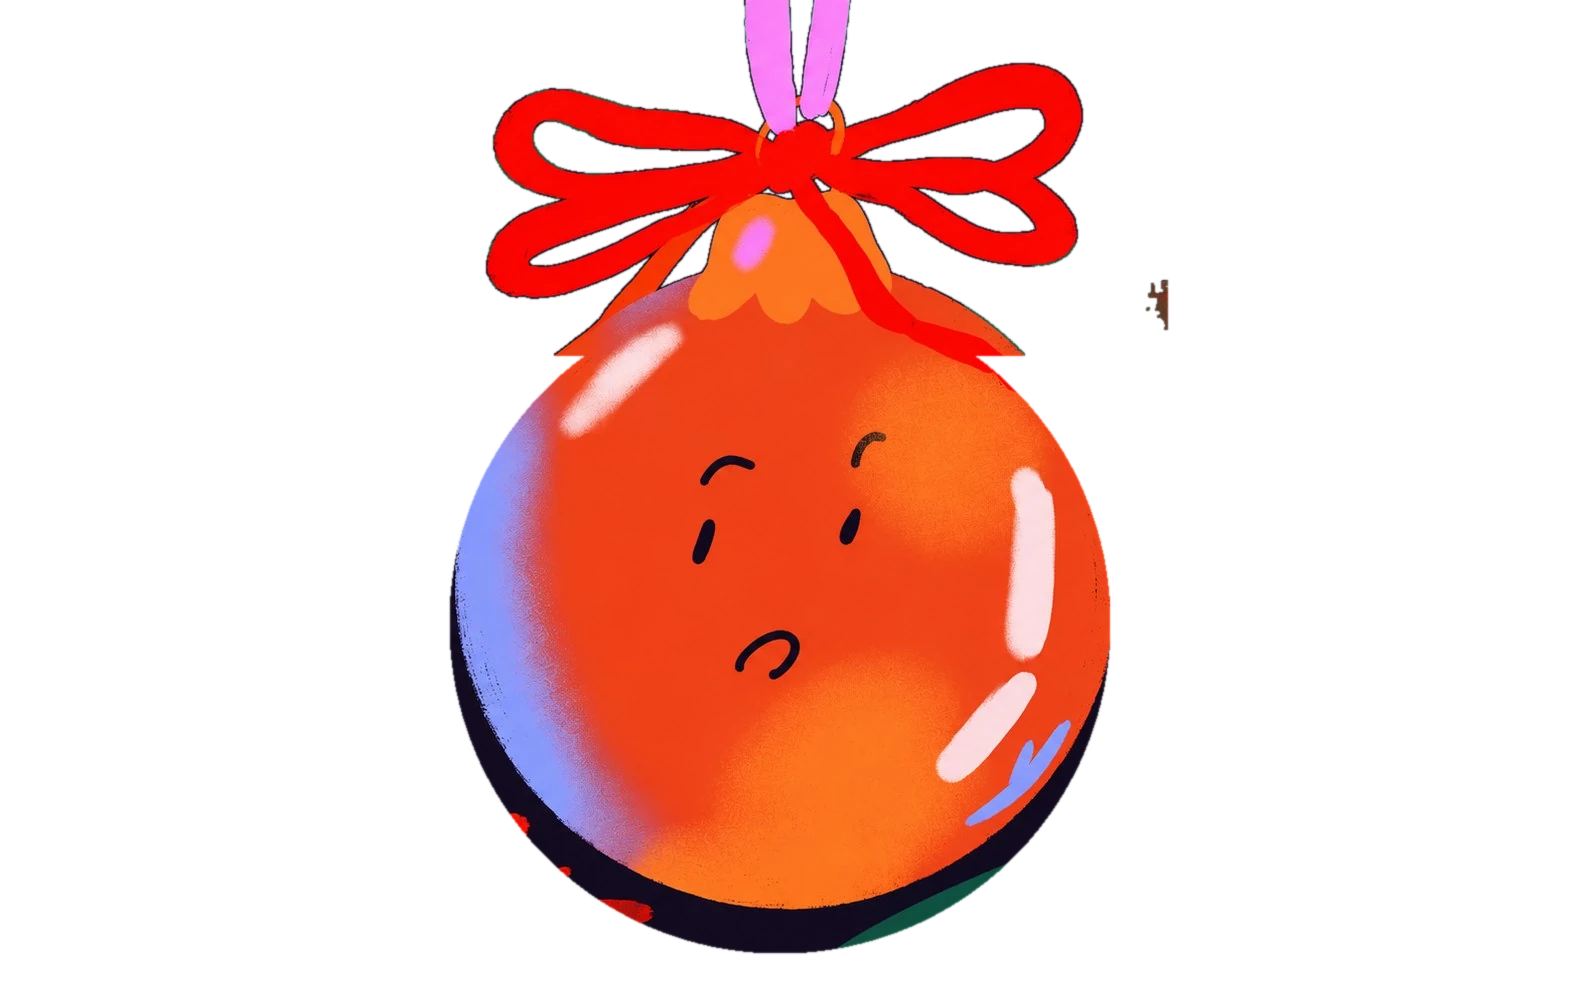
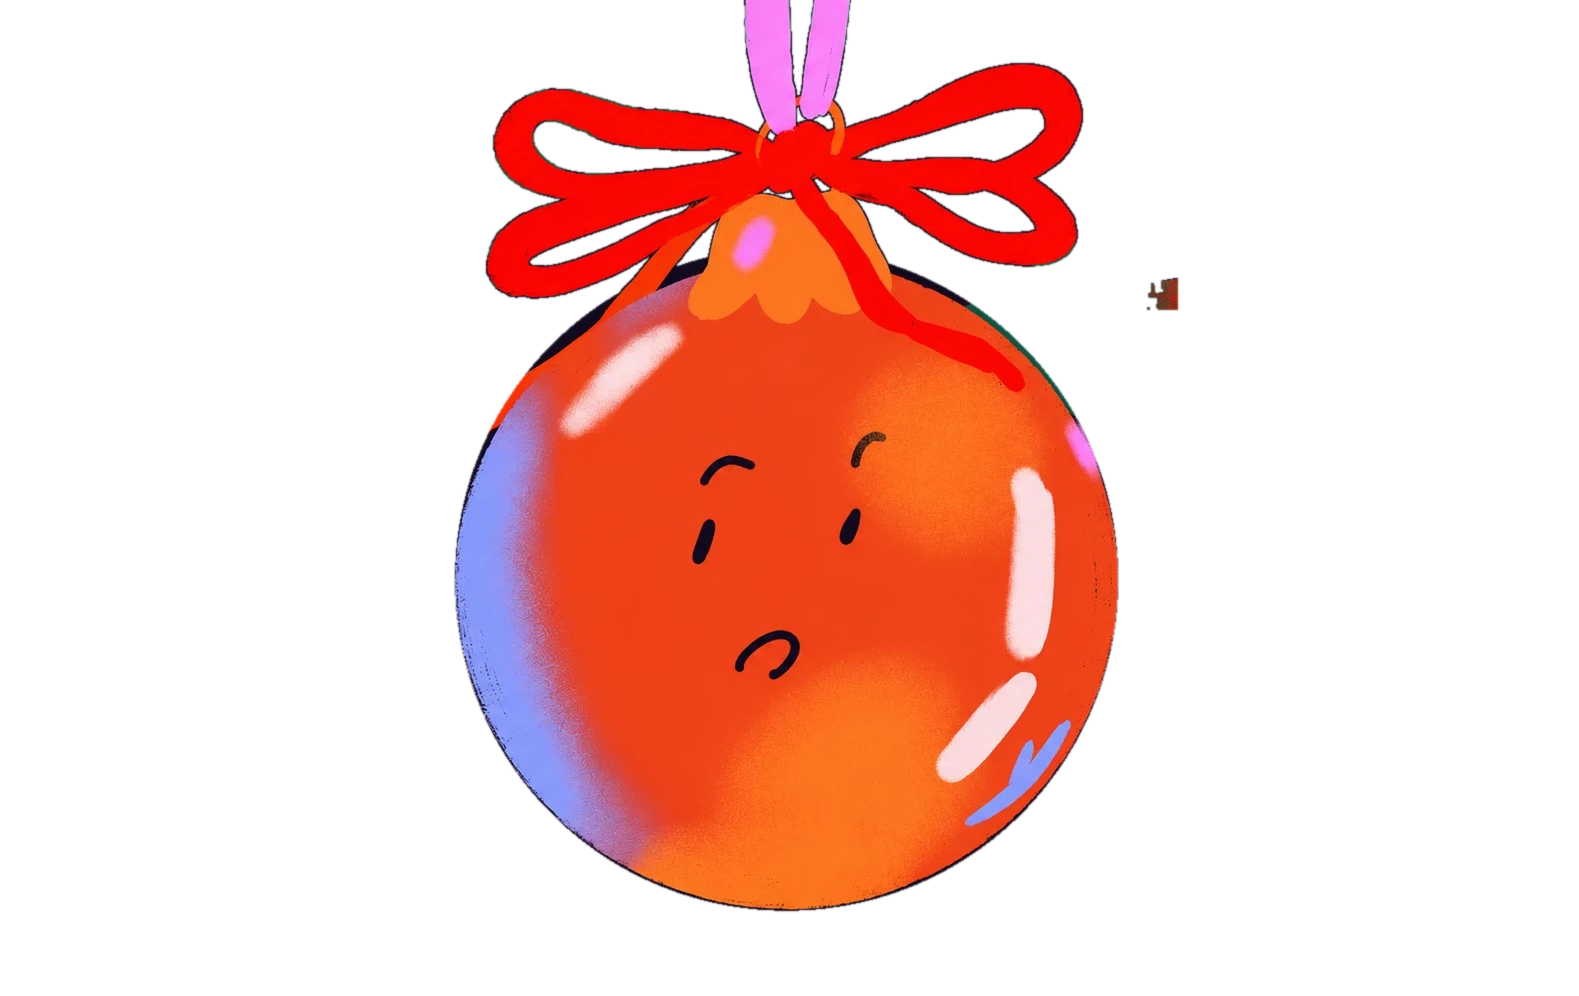
Card art: sample balls re-cut on a fitted circle (the layer sat 30 px low); polished layers get a quieter finish: soft reflection bands, a faint wide streak, a finer relief
Claude-Session: https://claude.ai/code/session_0149GxFJTT3wXb23LiRQ1s12

diff --git a/gift/art/index.html b/gift/art/index.html
@@ -94,13 +94,13 @@ input[type=range]{width:210px;accent-color:var(--rust)}
    crisper than the matte card; the room's reflection and a thin streak run across it faster than the card turns
    (the same bands and speed as the print); a hair of relief, a dark rim away from the light and a lit rim towards it. */
 .vn-sh,.vn-lt,.vn-body{-webkit-mask:var(--vmask) 0 0/100% 100% no-repeat;mask:var(--vmask) 0 0/100% 100% no-repeat}
-.vn-sh{background:#000;opacity:.28;transform:translate(var(--shx,0),var(--shy,0))}
-.vn-lt{background:#fff;opacity:.18;transform:translate(var(--ltx,0),var(--lty,0))}
+.vn-sh{background:#000;opacity:.16;transform:translate(var(--shx,0),var(--shy,0))}
+.vn-lt{background:#fff;opacity:.12;transform:translate(var(--ltx,0),var(--lty,0))}
 .vn-body{isolation:isolate}
 .vn-art{filter:saturate(1.08) contrast(1.05)}
 .vn-body>.vn-env,.vn-body>.vn-spec{inset:auto;left:50%;top:50%;height:300cqw;width:var(--len);margin:-150cqw 0 0 calc(var(--len) / -2);transform:rotate(28deg) translateX(var(--off,0))}
-.vn-body>.vn-env{--len:210cqw;--off:var(--eo);mix-blend-mode:overlay;background:linear-gradient(90deg,rgba(255,255,255,0) 0%,rgba(255,255,255,.5) 20%,rgba(255,255,255,0) 34%,rgba(0,0,0,.24) 42%,rgba(0,0,0,.46) 48%,rgba(0,0,0,.46) 52%,rgba(0,0,0,.24) 58%,rgba(0,0,0,0) 68%,rgba(255,255,255,.5) 80%,rgba(255,255,255,0) 100%)}
-.vn-body>.vn-spec{--len:175cqw;--off:var(--so);mix-blend-mode:screen;background:linear-gradient(90deg,rgba(255,255,255,0) 0%,rgba(255,255,255,0) 46%,rgba(255,255,255,.45) 49%,rgba(255,255,255,.8) 50%,rgba(255,255,255,.45) 51%,rgba(255,255,255,0) 54%,rgba(255,255,255,0) 100%)}
+.vn-body>.vn-env{--len:210cqw;--off:var(--eo);mix-blend-mode:soft-light;background:linear-gradient(90deg,rgba(255,255,255,0) 0%,rgba(255,255,255,.34) 20%,rgba(255,255,255,0) 34%,rgba(0,0,0,.12) 42%,rgba(0,0,0,.26) 48%,rgba(0,0,0,.26) 52%,rgba(0,0,0,.12) 58%,rgba(0,0,0,0) 68%,rgba(255,255,255,.34) 80%,rgba(255,255,255,0) 100%)}
+.vn-body>.vn-spec{--len:175cqw;--off:var(--so);mix-blend-mode:screen;background:linear-gradient(90deg,rgba(255,255,255,0) 0%,rgba(255,255,255,0) 42%,rgba(255,255,255,.04) 45%,rgba(255,255,255,.1) 47.5%,rgba(255,255,255,.2) 49.3%,rgba(255,255,255,.24) 50%,rgba(255,255,255,.2) 50.7%,rgba(255,255,255,.1) 52.5%,rgba(255,255,255,.04) 55%,rgba(255,255,255,0) 58%,rgba(255,255,255,0) 100%)}
 .laylist{display:flex;flex-direction:column;gap:10px}
 .layrow{display:flex;align-items:center;gap:12px;font-size:14px;color:var(--body)}
 .layrow .lthumb{flex:0 0 auto;width:52px;aspect-ratio:85.6/53.98;border-radius:5px;background:var(--sand) center/cover no-repeat;box-shadow:inset 0 0 0 1px var(--line)}
@@ -460,8 +460,8 @@ function frame(now){
   /* polished layers: the same bands and speed as the print, in card widths */
   if(S.vn.on){
     s.setProperty('--eo',((260+u*760-v*300)/8.56).toFixed(2)+'cqw');s.setProperty('--so',((60+u*1150-v*420)/8.56).toFixed(2)+'cqw');
-    s.setProperty('--shx',(-ldx*.2).toFixed(3)+'cqw');s.setProperty('--shy',(-ldy*.2).toFixed(3)+'cqw');
-    s.setProperty('--ltx',(ldx*.11).toFixed(3)+'cqw');s.setProperty('--lty',(ldy*.11).toFixed(3)+'cqw');
+    s.setProperty('--shx',(-ldx*.14).toFixed(3)+'cqw');s.setProperty('--shy',(-ldy*.14).toFixed(3)+'cqw');
+    s.setProperty('--ltx',(ldx*.08).toFixed(3)+'cqw');s.setProperty('--lty',(ldy*.08).toFixed(3)+'cqw');
   }
   requestAnimationFrame(frame);
 }
